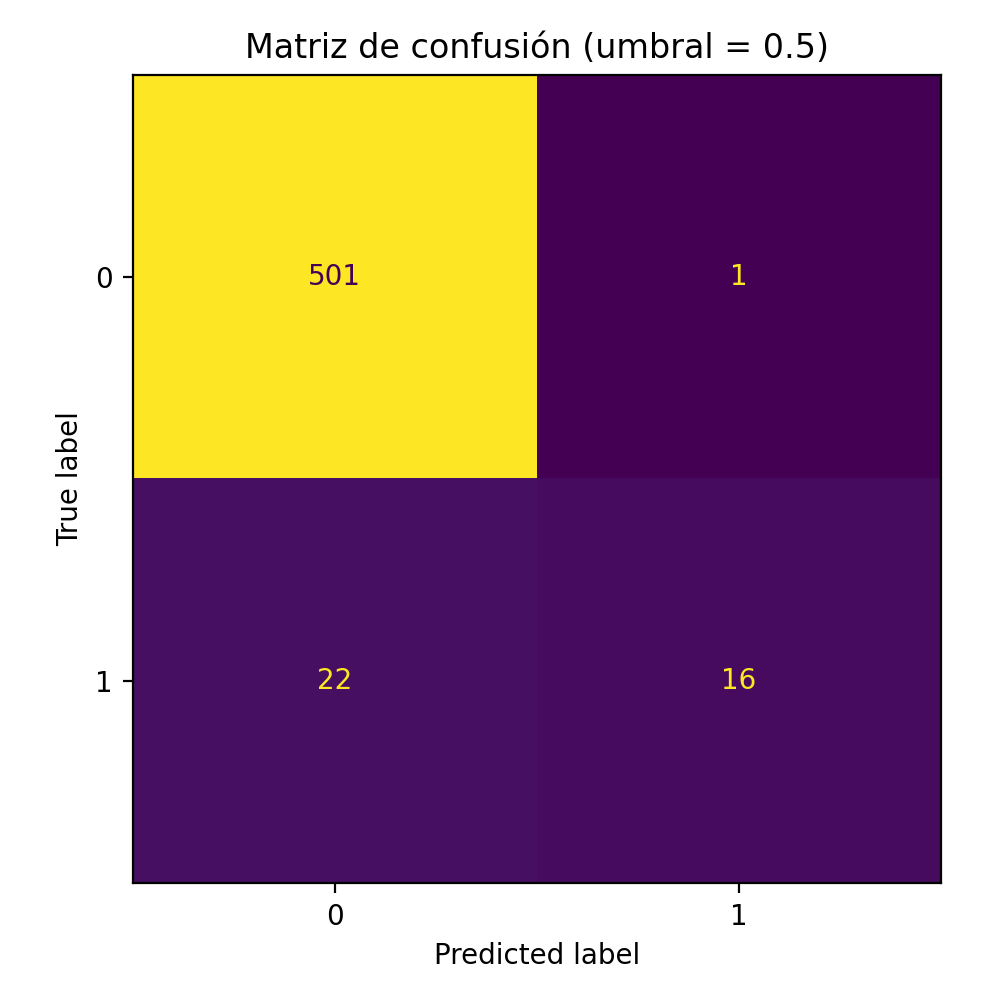
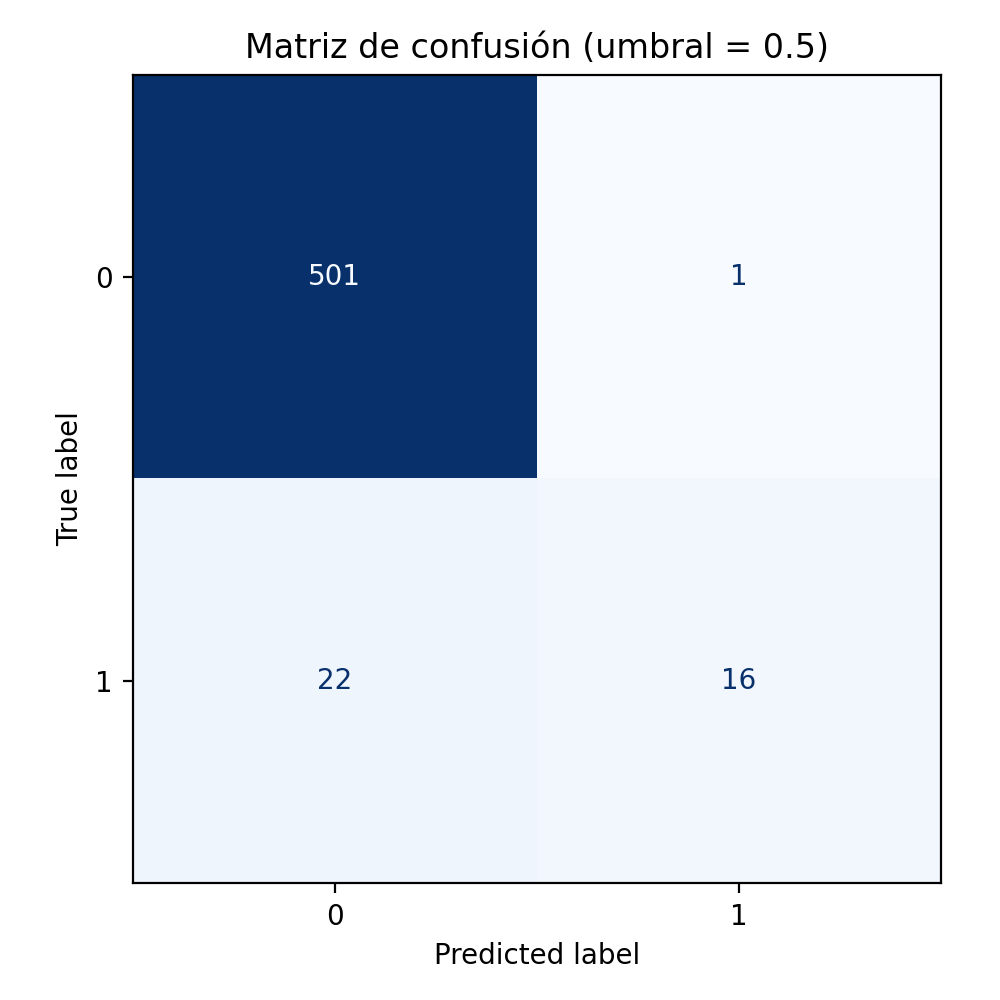
Confusion Matrix color changed

diff --git a/P4/P4_matriz_costes/python/practica4_template.py b/P4/P4_matriz_costes/python/practica4_template.py
@@ -303,10 +303,16 @@ def graficar_matriz_confusion(
         Título de la figura.
     """
     cm = confusion_matrix(y_true, y_pred)
-    disp = ConfusionMatrixDisplay(confusion_matrix=cm)
+    disp = ConfusionMatrixDisplay(
+        confusion_matrix=cm,
+    )
 
     fig, ax = plt.subplots(figsize=(5, 5))
-    disp.plot(ax=ax, colorbar=False)
+    disp.plot(
+        ax=ax,
+        colorbar=False,
+        cmap="Blues",
+    )
     ax.set_title(title)
     plt.tight_layout()
     plt.savefig(output_path, dpi=200)
